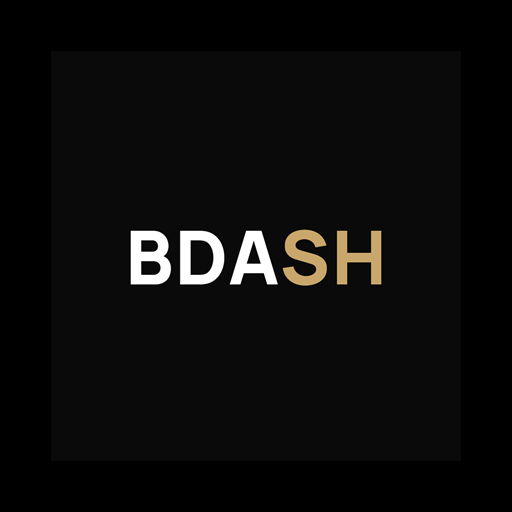
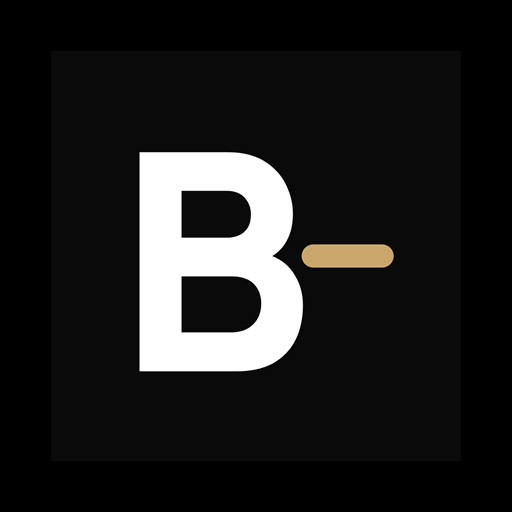
Appli BDASH : accueil sur la carte (panneau qui se baisse), mode clair par défaut et carte claire, liste de voitures légère, bouton Commander, icônes B, ouverture en fondu

Changed region(s): [[0.25, 0.2812, 0.7812, 0.75]]

diff --git a/appli/index.html b/appli/index.html
@@ -11,9 +11,9 @@
 <meta name="apple-mobile-web-app-status-bar-style" content="black-translucent">
 <meta name="apple-mobile-web-app-title" content="BDASH">
 <meta name="format-detection" content="telephone=no">
-<link rel="manifest" href="manifest.webmanifest?v=20261016-1553">
-<link rel="apple-touch-icon" href="icone-180.png?v=20261016-1553">
-<link rel="icon" href="icone-192.png?v=20261016-1553" type="image/png">
+<link rel="manifest" href="manifest.webmanifest?v=20261016-1619">
+<link rel="apple-touch-icon" href="icone-180.png?v=20261016-1619">
+<link rel="icon" href="icone-192.png?v=20261016-1619" type="image/png">
 </head>
 <body><title>BDASH</title>
 <link rel="preconnect" href="https://fonts.googleapis.com">
@@ -241,8 +241,8 @@ details.faq p { margin: -4px 0 16px; color: var(--texte-2); font-size: 14px; }
 /* ---------- Barre du bas flottante ---------- */
 .nav {
   position: absolute; left: 50%; bottom: 16px; z-index: 8; transform: translateX(-50%);
-  width: calc(100% - 28px); max-width: 360px; height: 68px; padding: 6px;
-  display: grid; grid-template-columns: repeat(4, 1fr); gap: 4px;
+  width: calc(100% - 28px); max-width: 300px; height: 68px; padding: 6px;
+  display: grid; grid-template-columns: repeat(3, 1fr); gap: 4px;
   border-radius: 99px; background: var(--verre); border: 1px solid var(--ligne);
   -webkit-backdrop-filter: blur(18px) saturate(1.4); backdrop-filter: blur(18px) saturate(1.4);
   box-shadow: var(--ombre); transition: transform 0.35s var(--ease), opacity 0.3s;
@@ -403,6 +403,11 @@ details.faq p { margin: -4px 0 16px; color: var(--texte-2); font-size: 14px; }
 
 /* ---------- v0.4 : accueil, options de course, documents, textes légaux ---------- */
 .salut { margin: 2px 0 -4px; font: 800 30px/1.1 var(--display); letter-spacing: -0.03em; text-wrap: balance; }
+/* accueil sur la carte : le panneau laisse la place au menu du bas ; baissé, il ne garde que « Où allez-vous ? » */
+.salut-f { margin: 0; font: 800 26px/1.15 var(--display); letter-spacing: -0.02em; }
+.appareil[data-ecran="accueil"] .feuille { padding-bottom: 104px; max-height: calc(100% - 110px); }
+.appareil[data-ecran="accueil"] .feuille.reduite { max-height: 200px; }
+.appareil[data-ecran="accueil"] .feuille.reduite .accueil-f > :not(.recherche) { display: none; }
 .salut span { display: block; margin-top: 6px; font: 500 14.5px/1.3 var(--texte-police); letter-spacing: 0; color: var(--texte-2); }
 .rapides { display: flex; gap: 8px; overflow-x: auto; scrollbar-width: none; margin: -6px -18px 0; padding: 0 18px; }
 .rapides::-webkit-scrollbar { display: none; }
@@ -499,6 +504,21 @@ button.activite > .ic { color: var(--texte-3); }
 .gamme:active { transform: scale(0.96); }
 .gamme[aria-pressed="true"] { border-color: var(--texte); }
 .gamme svg { width: 74px; height: 28px; }
+/* choix de la voiture : une liste légère, la ligne choisie encadrée */
+.liste-gammes { display: grid; gap: 4px; margin: 0 -6px; }
+.ligne-gamme { display: grid; grid-template-columns: 70px minmax(0, 1fr) auto; align-items: center; gap: 12px; width: 100%; padding: 8px 10px 8px 6px; border-radius: 14px; border: 2px solid transparent; text-align: left; transition: border-color 0.2s, background 0.2s; }
+.ligne-gamme[aria-pressed="true"] { border-color: var(--texte); background: var(--surface); }
+.ligne-gamme .lg-auto svg { width: 70px; height: 27px; display: block; }
+.ligne-gamme .lg-nom { min-width: 0; }
+.ligne-gamme .lg-nom b { display: flex; align-items: center; gap: 6px; font: 700 15.5px/1.2 var(--display); white-space: nowrap; }
+.ligne-gamme .lg-nom small { display: flex; align-items: center; gap: 4px; margin-top: 3px; color: var(--texte-2); font-size: 12.5px; white-space: nowrap; overflow: hidden; text-overflow: ellipsis; }
+.ligne-gamme .lg-prix { display: grid; justify-items: end; }
+.ligne-gamme .lg-prix b { font: 700 15.5px/1 var(--display); font-variant-numeric: tabular-nums; }
+.ligne-gamme .lg-prix s { color: var(--texte-3); font-size: 12px; margin-bottom: 3px; }
+.lg-arrivee { display: flex; align-items: center; gap: 6px; margin: -6px 0 0; color: var(--texte-2); }
+.btn-commander[disabled] { opacity: 0.4; }
+.appareil[data-ecran="choix"] .feuille { max-height: 74%; padding-bottom: 0; }
+.appareil[data-ecran="choix"] .btn-commander { position: sticky; bottom: 0; z-index: 2; margin-bottom: 14px; box-shadow: 0 0 0 14px var(--feuille), 0 -18px 18px 6px var(--feuille); }
 .gamme b { font: 700 12.5px/1.1 var(--display); }
 .gamme span { font: 600 12px/1 var(--texte-police); color: var(--texte-2); font-variant-numeric: tabular-nums; }
 button.paiement { width: 100%; text-align: left; }
@@ -713,37 +733,27 @@ button.paiement { width: 100%; text-align: left; }
 .tk-qr.sans-qr { font-size: 9px; color: #000; padding: 4px; text-align: center; overflow-wrap: anywhere; }
 
 /* ---------- Ouverture : BDASH monte lettre par lettre (BDA en blanc, SH en or), les lettres se resserrent,
-   un trait doré se dessine, puis l'écran s'ouvre vers le haut. Ni zoom ni flou sur le logo. ---------- */
+   un trait doré se dessine, puis l'appli apparaît en fondu (comme Uber). Ni zoom ni flou sur le logo. ---------- */
 .lancement { position: absolute; inset: 0; z-index: 90; background: #000; overflow: hidden; display: grid; place-items: center; }
-.lancement::after { content: ""; position: absolute; left: 0; right: 0; bottom: 0; height: 2px; background: linear-gradient(90deg, rgba(201, 166, 107, 0), #c9a66b 25%, #e2cb9a 50%, #c9a66b 75%, rgba(201, 166, 107, 0)); opacity: 0; }
-.lancement.go { animation: l-porte 0.62s 2.05s cubic-bezier(0.76, 0, 0.24, 1) forwards; }
-.lancement.go::after { animation: l-apparait 0.2s 1.95s ease forwards; }
+.lancement.go { animation: l-sortie 0.35s 1.6s ease forwards; }
 .lancement.fini { animation: l-sortie 0.25s ease forwards; }
 .l-bloc { display: grid; justify-items: center; }
 .l-mot { display: flex; gap: 0.14em; overflow: hidden; padding: 0.06em 0.02em; font: 800 64px/1 var(--display); color: #fff; }
 .l-mot span { display: block; transform: translateY(110%); }
 .l-mot .or { color: #c9a66b; }
 .l-ligne { width: 56px; height: 1px; margin-top: 18px; background: #c9a66b; transform: scaleX(0); }
-.l-sous { margin-top: 16px; font: 600 10.5px/1 var(--texte-police); letter-spacing: 0.46em; padding-left: 0.46em; color: #8a8a8a; opacity: 0; transform: translateY(6px); }
-.go .l-mot { animation: l-serre 1.5s 0.1s cubic-bezier(0.22, 1, 0.36, 1) forwards; }
+.go .l-mot { animation: l-serre 1.4s 0.1s cubic-bezier(0.22, 1, 0.36, 1) forwards; }
 .go .l-mot span { animation: l-monte 0.62s calc(0.15s + var(--i) * 0.07s) cubic-bezier(0.22, 1, 0.36, 1) forwards; }
 .go .l-ligne { animation: l-ligne 0.55s 0.95s cubic-bezier(0.22, 1, 0.36, 1) forwards; }
-.go .l-sous { animation: l-sous-entre 0.5s 1.1s cubic-bezier(0.22, 1, 0.36, 1) forwards; }
-.go .l-bloc { animation: l-leve 0.35s 1.9s cubic-bezier(0.55, 0, 0.75, 0) forwards; }
 @keyframes l-monte { to { transform: none; } }
 @keyframes l-serre { to { gap: 0.035em; } }
 @keyframes l-ligne { to { transform: scaleX(1); } }
-@keyframes l-sous-entre { to { opacity: 1; transform: none; } }
-@keyframes l-leve { to { opacity: 0; transform: translateY(-14px); } }
-@keyframes l-apparait { to { opacity: 1; } }
-@keyframes l-porte { to { transform: translateY(-100%); } }
 @keyframes l-sortie { to { opacity: 0; visibility: hidden; } }
 @media (prefers-reduced-motion: reduce) {
   .lancement.go { animation: l-sortie 0.3s 0.9s forwards; }
-  .lancement *, .lancement::after { animation: none !important; }
+  .lancement * { animation: none !important; }
   .l-mot { gap: 0.035em; }
-  .l-mot span, .l-ligne, .l-sous { transform: none; }
-  .l-sous { opacity: 1; }
+  .l-mot span, .l-ligne { transform: none; }
   .p, .cx, .feuille, .modale, .coche { animation: none; }
 }
 </style>
@@ -813,7 +823,7 @@ button.paiement { width: 100%; text-align: left; }
 </svg>
 <!-- ⟪/commun:icones⟫ -->
 
-<div class="appareil" id="appareil" data-mode="sombre">
+<div class="appareil" id="appareil" data-mode="clair">
   <!-- dégradés des voitures : placés dans l'appareil pour suivre le mode sombre ou clair -->
   <svg width="0" height="0" style="position:absolute" aria-hidden="true" focusable="false">
     <defs>
@@ -835,7 +845,6 @@ button.paiement { width: 100%; text-align: left; }
   <main class="page" id="page"></main>
   <nav class="nav" id="nav" aria-label="Navigation">
     <button type="button" data-a="onglet" data-v="accueil"><svg class="ic"><use href="#i-accueil"/></svg>Accueil</button>
-    <button type="button" data-a="onglet" data-v="services"><svg class="ic"><use href="#i-services"/></svg>Services</button>
     <button type="button" data-a="onglet" data-v="activite"><svg class="ic"><use href="#i-recu"/></svg>Activité</button>
     <button type="button" data-a="onglet" data-v="compte"><svg class="ic"><use href="#i-utilisateur"/></svg>Compte<span class="point" id="point-compte"></span></button>
   </nav>
@@ -848,7 +857,6 @@ button.paiement { width: 100%; text-align: left; }
     <div class="l-bloc">
       <div class="l-mot" aria-hidden="true"><span style="--i:0">B</span><span style="--i:1">D</span><span style="--i:2">A</span><span class="or" style="--i:3.6">S</span><span class="or" style="--i:4.6">H</span></div>
       <div class="l-ligne"></div>
-      <div class="l-sous">CHAUFFEUR PRIVÉ</div>
     </div>
   </div>
 </div>
@@ -938,7 +946,7 @@ button.paiement { width: 100%; text-align: left; }
   };
   const etat = {
     ecran: 'accueil', pile: [], ongletActivite: 'passees',
-    modeAffichage: lire('bda-app-affichage', 'sombre'),
+    modeAffichage: lire('bda-app-affichage', 'clair'),
     user: lire('bda-app-compte', null), auth: {},
     depart: lire('bda-app-depart', null) || DEPART_DEFAUT, arrivee: null, arret: null, champ: 'arrivee', filtre: '', filtreDepart: '', filtreArret: '',
     passager: null, vol: { numero: '', pancarte: true }, feuilleReduite: false, sensVehicule: 0, favoriDemande: null, gps: true,
@@ -1530,12 +1538,13 @@ button.paiement { width: 100%; text-align: left; }
       bat: '#1b1e22', batMur: '#131518', batToit: '#262a30', batBord: 'rgba(255,255,255,0.06)',
       trace: '#ffffff', traceOr: '#c9a66b', traceBord: 'rgba(0,0,0,0.55)', traceGris: 'rgba(255,255,255,0.4)', nous: '#ffffff', nousVitres: '#2b2b2b', autres: '#6b7077', autresVitres: '#1d1f22', marque: '#ffffff', centre: '#000000', bulle: '#ffffff', bulleTexte: '#000000', halo2: 'rgba(255,255,255,0.12)', onde: '255,255,255',
     },
+    // clair, façon Uber : gris très doux, routes blanches bordées de gris, eau et parcs pastel, peu de texte
     clair: {
-      mer: '#bcd5e3', terre: '#f1f1ee', autre: '#e8e8e4', frontiere: 'rgba(0,0,0,0.2)', region: 'rgba(0,0,0,0.08)',
-      eau: '#b8d3e2', riviere: '#a9cadd', parc: '#d6e8cc', bois: '#cde2c3', cimetiere: '#dfe5dc', sport: '#d6e8cc',
-      routes: ['#ffd98a', '#ffe7b0', '#ffffff', '#ffffff', '#ffffff', '#ffffff'], bord: ['#e3b45b', '#e8c27a', '#d4d4cf', '#d9d9d4', '#dddcd7', '#e2e2dd'],
-      ville: '#2b2e33', village: '#5b5f66', quartier: '#7a7e85', rue: '#6c7077', halo: '#f1f1ee',
-      bat: '#e4e1da', batMur: '#cfcbc1', batToit: '#eeece7', batBord: 'rgba(0,0,0,0.08)',
+      mer: '#cfe0ee', terre: '#f3f3f1', autre: '#ececea', frontiere: 'rgba(0,0,0,0.12)', region: 'rgba(0,0,0,0.05)',
+      eau: '#cfe0ee', riviere: '#c3d8ea', parc: '#deedd6', bois: '#d6e8ce', cimetiere: '#e4e9e1', sport: '#deedd6',
+      routes: ['#ffffff', '#ffffff', '#ffffff', '#ffffff', '#ffffff', '#ffffff'], bord: ['#c9ccd1', '#cfd2d6', '#d9dbde', '#dfe0e2', '#e3e4e6', '#e7e8e9'],
+      ville: '#3c4043', village: '#5f6368', quartier: '#8a8f94', rue: '#8a8f94', halo: '#f3f3f1',
+      bat: '#e9e9e6', batMur: '#dadad6', batToit: '#f0f0ed', batBord: 'rgba(0,0,0,0.05)',
       trace: '#000000', traceOr: '#c9a66b', traceBord: 'rgba(255,255,255,0.8)', traceGris: 'rgba(0,0,0,0.35)', nous: '#000000', nousVitres: '#5a5a5a', autres: '#8d9197', autresVitres: '#d5d7da', marque: '#000000', centre: '#ffffff', bulle: '#000000', bulleTexte: '#ffffff', halo2: 'rgba(0,0,0,0.1)', onde: '0,0,0',
     },
   };
@@ -1917,6 +1926,7 @@ button.paiement { width: 100%; text-align: left; }
       if (etat.itin) cadrerSur(pointsTrace(etat.itin.tr).concat([etat.depart, etat.arret, etat.arrivee].filter(Boolean)));
       else cadrerSur([etat.depart, etat.arret, etat.arrivee].filter(Boolean), 15.5);
     } else if (e === 'recherche') { cible.u = uDeX(etat.depart.x); cible.v = vDeY(etat.depart.y); cible.z = 15.6; }
+    else if (e === 'accueil') { cible.u = uDeX(etat.depart.x); cible.v = vDeY(etat.depart.y); cible.z = 15.3; }
     else if (e === 'approche' && c && c.rA) cadrerSur(pointsTrace(c.rA, fApproche(c)).concat([etat.depart], c.pos ? [c.pos] : []), 16.4, 60);
     else if (e === 'approche' && c && c.pos) cadrerSur([c.pos, etat.depart], 16.4, 60);
     else if (e === 'arrive') { cible.u = uDeX(etat.depart.x); cible.v = vDeY(etat.depart.y); cible.z = 16.6; }
@@ -1976,7 +1986,8 @@ button.paiement { width: 100%; text-align: left; }
   }
   function dessinerAnime(c, cam, t, P) {
     const e = etat.ecran, cr = etat.course;
-    if (['choix', 'recherche', 'pointer'].includes(e) && cam.z >= 13.2) dessinerVoisins(c, cam, t, P);
+    if (['accueil', 'choix', 'recherche', 'pointer'].includes(e) && cam.z >= 13.2) dessinerVoisins(c, cam, t, P);
+    if (e === 'accueil') repereDepart(c, cam, etat.depart, t, P);
     if ((e === 'choix' || e === 'reservee') && etat.arrivee) {
       if (etat.itin) dessinerTrace(c, cam, etat.itin.tr, 0, P.trace, P, 5, true);
       if (etat.arret) repereArret(c, cam, etat.arret, P);
@@ -2025,6 +2036,8 @@ button.paiement { width: 100%; text-align: left; }
     geste.pts.set(e.pointerId, surCanvas(e));
     geste.actif = true; geste.vu = 0; geste.vv = 0; geste.dernier = performance.now();
     devenirLibre();
+    // accueil : toucher la carte baisse le panneau « Bonjour » pour la dégager
+    if (etat.ecran === 'accueil' && !etat.feuilleReduite) { etat.feuilleReduite = true; feuille.classList.add('reduite'); }
   });
   carte.addEventListener('pointermove', (e) => {
     if (!geste.pts.has(e.pointerId)) return;
@@ -2776,6 +2789,24 @@ button.paiement { width: 100%; text-align: left; }
       <p class="petit centre">BDA · Chauffeur privé · Paris et Île-de-France · 24 h/24</p>
     </div>`;
   }
+  // Accueil façon Uber : la carte en plein écran, le panneau « Bonjour » en bas.
+  // Toucher la carte baisse le panneau : on peut alors la déplacer et zoomer librement.
+  function vueAccueil() {
+    const pill = `<span class="plus-tard" data-a="planifier">${ic('calendrier', 'ic-xs')}${esc(etat.planif ? textePlanif(etat.planif) : 'Plus tard')}</span>`;
+    const recents = etat.recents.slice(0, 3).map((r, i) => `<button class="ligne" type="button" data-a="choisirRecent" data-v="${i}"><span class="pastille">${ic('horloge', 'ic-s')}</span><span><b>${esc(r.titre)}</b><small>${esc(r.sous)}</small></span><span class="droite">${ic('chevron', 'ic-s')}</span></button>`).join('');
+    const lp = etat.lieuxPerso;
+    const rapide = (k, icone, titre) => `<button class="rapide" type="button" data-a="lieuRapide" data-v="${k}">${ic(icone, 'ic-s')}<span>${lp[k] ? titre : `Ajouter ${titre.toLowerCase()}`}</span></button>`;
+    const prenom = etat.user && etat.user.prenom ? `, ${esc(etat.user.prenom)}` : '';
+    const h = new Date().getHours();
+    const service = (a, v, icone, nom) => `<button class="rapide" type="button" data-a="${a}"${v ? ` data-v="${v}"` : ''}>${ic(icone, 'ic-s')}<span>${nom}</span></button>`;
+    return `<div class="poignee" data-a="basculerFeuille" role="button" aria-label="Agrandir ou réduire"></div><div class="pile accueil-f">
+      <h1 class="salut-f">${h >= 5 && h < 18 ? 'Bonjour' : 'Bonsoir'}${prenom}</h1>
+      <button class="recherche" type="button" data-a="destination">${ic('loupe')}<span class="txt">Où allez-vous ?</span>${pill}</button>
+      <div class="rapides">${rapide('domicile', 'maison', 'Domicile')}${rapide('travail', 'mallette', 'Travail')}${service('destination', 'aeroport', 'avion', 'Aéroport')}</div>
+      ${recents ? `<div class="liste">${recents}</div>` : ''}
+      <div class="rapides">${service('planifier', '', 'calendrier', 'Réserver')}${service('disposition', '', 'horloge', 'À l’heure')}${service('depuisAeroport', '', 'avion', 'Depuis l’aéroport')}${service('pourProche', '', 'groupe', 'Pour un proche')}${service('destination', 'vip', 'vip', 'VIP')}</div>
+    </div>`;
+  }
   function pageServices() {
     const t = (a, v, icone, nom, badge = '') => `<button class="service" type="button" data-a="${a}" data-v="${v}">${badge ? `<span class="badge">${badge}</span>` : ''}${ic(icone)}${nom}</button>`;
     return `<div class="p">
@@ -2939,7 +2970,7 @@ button.paiement { width: 100%; text-align: left; }
     },
     affichage() {
       const r = (v, titre, sous) => `<button class="choix-radio" type="button" role="radio" aria-checked="${etat.modeAffichage === v}" data-a="affichage" data-v="${v}"><span><b>${titre}</b><small>${sous}</small></span><span class="rond-radio"></span></button>`;
-      return `<div class="p">${tete('Affichage')}<div>${r('sombre', 'Mode sombre', 'Fond noir, idéal la nuit')}${r('clair', 'Mode clair', 'Fond blanc, lisible en plein soleil')}${r('auto', 'Comme le téléphone', 'Suit le réglage de votre téléphone')}</div></div>`;
+      return `<div class="p">${tete('Affichage')}<div>${r('clair', 'Mode clair', 'Fond blanc, lisible en plein soleil')}${r('sombre', 'Mode sombre', 'Fond noir, idéal la nuit')}${r('auto', 'Comme le téléphone', 'Suit le réglage de votre téléphone')}</div></div>`;
     },
     preferences() {
       const p = etat.prefs;
@@ -3213,28 +3244,16 @@ button.paiement { width: 100%; text-align: left; }
     const f = forfaitCourse(), k = etat.vehicule, v = VEHICULES[k], remise = remisePromo();
     const prixDe = (x) => (it ? prix(x, it) : null);
     const apresRemise = (p) => (p == null ? null : Math.max(0, p - remise));
-    // sélecteur de gammes qui défile sous la vitrine
-    const gamme = (x) => `<button class="gamme" type="button" data-a="vehicule" data-v="${x}" aria-pressed="${k === x}">${silhouette(x)}<b>${VEHICULES[x].nom}</b><span>${it ? euros(apresRemise(prixDe(x))) : '—'}</span></button>`;
+    // liste des gammes, façon Uber : une ligne par voiture (dessin, nom, places et délai, prix), la choisie est encadrée
+    const gamme = (x) => {
+      const vx = VEHICULES[x], px = prixDe(x), delai = !etat.planif && vx.attente != null ? ` · à ${vx.attente} min` : '';
+      const tag = x === 'vip' ? ' <span class="cartouche or">Protection</span>' : x === 'electrique' ? ' <span class="cartouche vert">Éco</span>' : '';
+      return `<button class="ligne-gamme" type="button" data-a="vehicule" data-v="${x}" aria-pressed="${k === x}"><span class="lg-auto">${silhouette(x)}</span><span class="lg-nom"><b>${vx.nom}${tag}</b><small>${ic('utilisateur', 'ic-xs')}${vx.places}${esc(delai)}</small></span><span class="lg-prix">${remise && px != null ? `<s>${euros(px)}</s>` : ''}<b>${px != null ? euros(apresRemise(px)) : '—'}</b></span></button>`;
+    };
     const p = prixDe(k), pFinal = apresRemise(p);
     const arrivee = it ? new Date(depuis + ((etat.planif ? 0 : v.attente || 0) + it.min) * 60000) : null;
-    const etiquette = k === 'vip' ? '<span class="cartouche or">Protection</span>' : k === 'electrique' ? '<span class="cartouche vert">Éco</span>' : '';
     const sousPrix = !it ? '' : k === 'vip' ? `dont protection ${euros(AGENT_VIP)}` : f ? 'Prix fixe' : 'Prix garanti';
-    const sens = etat.sensVehicule; etat.sensVehicule = 0;
-    const anim = sens > 0 ? 'depuis-droite' : sens < 0 ? 'depuis-gauche' : '';
-    const vitrine = `<div class="showroom">
-      <div class="sr-scene" data-glisse="vehicule">
-        <span class="sr-halo"></span>
-        <div class="sr-auto ${anim}">${dessinVoiture(k)}<div class="sr-reflet" aria-hidden="true">${dessinVoiture(k)}</div></div>
-        <span class="sr-brille ${anim ? 'joue' : ''}"></span>
-        <button class="sr-fleche gauche" type="button" data-a="vehiculeVoisin" data-v="-1" aria-label="Voiture précédente">${ic('retour', 'ic-s')}</button>
-        <button class="sr-fleche droite" type="button" data-a="vehiculeVoisin" data-v="1" aria-label="Voiture suivante">${ic('fleche', 'ic-s')}</button>
-      </div>
-      <div class="sr-infos">
-        <div class="sr-nom"><b>${v.nom} ${etiquette}</b><small>${v.modele}</small></div>
-        <div class="sr-prix">${remise && p != null ? `<s>${euros(p)}</s>` : ''}<b>${pFinal != null ? euros(pFinal) : '—'}</b><small>${sousPrix}</small></div>
-      </div>
-      <div class="sr-chips"><span>${ic('utilisateur', 'ic-xs')}${v.places} places</span><span>${ic('mallette', 'ic-xs')}${v.bagages} bagages</span>${etat.planif ? '' : v.attente != null ? `<span>${ic('horloge', 'ic-xs')}À ${v.attente} min</span>` : `<span>${ic('horloge', 'ic-xs')}Aucun chauffeur libre</span>`}${arrivee ? `<span>${ic('pin', 'ic-xs')}Arrivée ${heure(arrivee)}</span>` : ''}</div>
-    </div>`;
+    etat.sensVehicule = 0;
     const ligneTrajet = it ? `${km1(it.km)} km · ${it.min} min${it.via.length ? ' · par ' + it.via.join(' et ') : ''}${etat.planif ? ` · ${textePlanif(etat.planif)}` : ''}` : 'Calcul du trajet sur les routes…';
     const ps = etat.passager, depuisAero = aeroportDe(a), fav = favoriDemande();
     const options = [
@@ -3251,13 +3270,14 @@ button.paiement { width: 100%; text-align: left; }
       <div class="resume"><div><b>${esc(b.titre)}</b><small>${esc(ligneTrajet)}</small></div><button class="lien" type="button" data-a="modifierTrajet">Modifier</button></div>
       ${etat.arret ? `<div class="arret-ligne">${ic('pin', 'ic-xs')}<span>Arrêt : ${esc(etat.arret.titre)}</span><button type="button" data-a="retirerArret" aria-label="Retirer l’arrêt">${ic('croix', 'ic-xs')}</button></div>` : ''}
       ${it ? '' : '<div class="barre-recherche"><i></i></div>'}
-      ${vitrine}
-      <div class="gammes">${ORDRE_VEHICULES.map(gamme).join('')}</div>
+      <div class="liste-gammes" role="group" aria-label="Choix de la voiture">${ORDRE_VEHICULES.map(gamme).join('')}</div>
+      ${!etat.planif && ORDRE_VEHICULES.every((x) => VEHICULES[x].attente == null) ? '<p class="petit lg-arrivee">Aucun chauffeur libre pour l’instant : vous pouvez réserver à l’avance.</p>' : ''}
+      ${arrivee ? `<p class="petit lg-arrivee">${ic('pin', 'ic-xs')}${v.nom} · arrivée vers ${heure(arrivee)}${sousPrix ? ` · ${sousPrix}` : ''}</p>` : ''}
       <div class="options">${options}</div>
       ${k === 'vip' ? `<p class="conditions mention-cnaps">Protection assurée et facturée par ${esc(LEGAL.protection)}, autorisation CNAPS n° ${aCompleter(LEGAL.cnaps)}. ${MENTION_CNAPS}</p>` : ''}
       <button class="paiement" type="button" data-a="choisirPaiement">${logoPaiement(etat.paiement)}<span class="nom-carte">${nomPaiement(etat.paiement)}</span>${ic('chevron', 'ic-s')}</button>
       <p class="conditions">${conditions} <button type="button" data-a="lireTexte" data-v="cgv">Conditions de vente</button></p>
-      ${glissiere(libelle, !!it)}
+      <button class="btn btn-principal btn-commander" type="button" data-a="commander"${it ? '' : ' disabled'}>${esc(libelle)}</button>
     </div>`;
   }
   // « Glisser pour commander » : on pousse le rond jusqu'au bout
@@ -3353,9 +3373,9 @@ button.paiement { width: 100%; text-align: left; }
   }
 
   /* ================= Rendu général ================= */
-  const ONGLETS = ['accueil', 'services', 'activite', 'compte'];
+  const ONGLETS = ['accueil', 'activite', 'compte'];
   const PAGES = { accueil: pageAccueil, services: pageServices, activite: pageActivite, compte: pageCompte, destination: pageDestination, ...SOUS_PAGES };
-  const VUES_CARTE = { choix: vueChoix, pointer: vuePointer, recherche: vueRecherche, approche: vueApproche, arrive: vueArrive, course: vueCourse, fin: vueFin, reservee: vueReservee };
+  const VUES_CARTE = { accueil: vueAccueil, choix: vueChoix, pointer: vuePointer, recherche: vueRecherche, approche: vueApproche, arrive: vueArrive, course: vueCourse, fin: vueFin, reservee: vueReservee };
   let dernierScroll = 0;
   // transitions entre pages façon iPhone : l'ancienne page (copiée) glisse pendant que la nouvelle arrive
   let sensPage = '';
@@ -3378,7 +3398,8 @@ button.paiement { width: 100%; text-align: left; }
     sensPage = '';
     page.hidden = surCarte; feuille.hidden = !surCarte;
     hautCarte.hidden = !surCarte;
-    $('#btn-retour-carte').hidden = ['recherche', 'approche', 'arrive', 'course', 'fin'].includes(e);
+    $('#btn-retour-carte').hidden = ['accueil', 'recherche', 'approche', 'arrive', 'course', 'fin'].includes(e);
+    appareil.dataset.ecran = e;
     carte.style.visibility = surCarte ? 'visible' : 'hidden';
     epingle.hidden = e !== 'pointer';
     if (!surCarte) btnRecentrer.hidden = true;
@@ -4030,7 +4051,7 @@ button.paiement { width: 100%; text-align: left; }
     confirmerSuppression() {
       try { Object.keys(localStorage).filter((k) => k.startsWith('bda-app-')).forEach((k) => localStorage.removeItem(k)); } catch { /* stockage indisponible */ }
       for (const k of Object.keys(DEFAUTS)) etat[k] = JSON.parse(JSON.stringify(DEFAUTS[k]));
-      Object.assign(etat, { user: null, depart: DEPART_DEFAUT, recents: RECENTS_DEFAUT, aVenir: [], passees: exemplesActivite(), messagesLus: false, planif: null, course: null, reservation: null, arrivee: null, itin: null, pile: [], ecran: 'accueil', modeAffichage: 'sombre',
+      Object.assign(etat, { user: null, depart: DEPART_DEFAUT, recents: RECENTS_DEFAUT, aVenir: [], passees: exemplesActivite(), messagesLus: false, planif: null, course: null, reservation: null, arrivee: null, itin: null, pile: [], ecran: 'accueil', modeAffichage: 'clair',
         paiement: 'carte', promo: null, favoris: [], favoriDemande: null, club: { points: 0 }, sons: true, conversations: {} });
       fermerChat();
       nouveauTrajet(); appliquerAffichage(); fermerModale(); rendu(); montrerConnexion();
@@ -5033,7 +5054,7 @@ button.paiement { width: 100%; text-align: left; }
   /* ================= Démarrage ================= */
   // ouverture : on attend la police du logo (0,9 s au plus) pour que BDASH ne change pas de forme en montant
   function demarrerOuverture(l) {
-    const go = () => { l.classList.add('go'); setTimeout(() => { if (l.isConnected) l.hidden = true; }, 2750); };
+    const go = () => { l.classList.add('go'); setTimeout(() => { if (l.isConnected) l.hidden = true; }, 2050); };
     const police = document.fonts && document.fonts.load ? document.fonts.load('800 64px Manrope') : Promise.resolve();
     Promise.race([police, new Promise((ok) => setTimeout(ok, 900))]).then(go, go);
   }

diff --git a/appli/chauffeur/index.html b/appli/chauffeur/index.html
@@ -11,9 +11,9 @@
 <meta name="apple-mobile-web-app-status-bar-style" content="black-translucent">
 <meta name="apple-mobile-web-app-title" content="BDASH Pro">
 <meta name="format-detection" content="telephone=no">
-<link rel="manifest" href="manifest.webmanifest?v=20261016-1553">
-<link rel="apple-touch-icon" href="icone-180.png?v=20261016-1553">
-<link rel="icon" href="icone-192.png?v=20261016-1553" type="image/png">
+<link rel="manifest" href="manifest.webmanifest?v=20261016-1619">
+<link rel="apple-touch-icon" href="icone-180.png?v=20261016-1619">
+<link rel="icon" href="icone-192.png?v=20261016-1619" type="image/png">
 </head>
 <body><title>BDASH Pro</title>
 <link rel="preconnect" href="https://fonts.googleapis.com">
@@ -926,12 +926,13 @@ button { cursor: pointer; background: none; border: 0; padding: 0; -webkit-tap-h
       bat: '#1b1e22', batMur: '#131518', batToit: '#262a30', batBord: 'rgba(255,255,255,0.06)',
       trace: '#ffffff', traceOr: '#c9a66b', traceBord: 'rgba(0,0,0,0.55)', traceGris: 'rgba(255,255,255,0.4)', nous: '#ffffff', nousVitres: '#2b2b2b', autres: '#6b7077', autresVitres: '#1d1f22', marque: '#ffffff', centre: '#000000', bulle: '#ffffff', bulleTexte: '#000000', halo2: 'rgba(255,255,255,0.12)', onde: '255,255,255',
     },
+    // clair, façon Uber : gris très doux, routes blanches bordées de gris, eau et parcs pastel, peu de texte
     clair: {
-      mer: '#bcd5e3', terre: '#f1f1ee', autre: '#e8e8e4', frontiere: 'rgba(0,0,0,0.2)', region: 'rgba(0,0,0,0.08)',
-      eau: '#b8d3e2', riviere: '#a9cadd', parc: '#d6e8cc', bois: '#cde2c3', cimetiere: '#dfe5dc', sport: '#d6e8cc',
-      routes: ['#ffd98a', '#ffe7b0', '#ffffff', '#ffffff', '#ffffff', '#ffffff'], bord: ['#e3b45b', '#e8c27a', '#d4d4cf', '#d9d9d4', '#dddcd7', '#e2e2dd'],
-      ville: '#2b2e33', village: '#5b5f66', quartier: '#7a7e85', rue: '#6c7077', halo: '#f1f1ee',
-      bat: '#e4e1da', batMur: '#cfcbc1', batToit: '#eeece7', batBord: 'rgba(0,0,0,0.08)',
+      mer: '#cfe0ee', terre: '#f3f3f1', autre: '#ececea', frontiere: 'rgba(0,0,0,0.12)', region: 'rgba(0,0,0,0.05)',
+      eau: '#cfe0ee', riviere: '#c3d8ea', parc: '#deedd6', bois: '#d6e8ce', cimetiere: '#e4e9e1', sport: '#deedd6',
+      routes: ['#ffffff', '#ffffff', '#ffffff', '#ffffff', '#ffffff', '#ffffff'], bord: ['#c9ccd1', '#cfd2d6', '#d9dbde', '#dfe0e2', '#e3e4e6', '#e7e8e9'],
+      ville: '#3c4043', village: '#5f6368', quartier: '#8a8f94', rue: '#8a8f94', halo: '#f3f3f1',
+      bat: '#e9e9e6', batMur: '#dadad6', batToit: '#f0f0ed', batBord: 'rgba(0,0,0,0.05)',
       trace: '#000000', traceOr: '#c9a66b', traceBord: 'rgba(255,255,255,0.8)', traceGris: 'rgba(0,0,0,0.35)', nous: '#000000', nousVitres: '#5a5a5a', autres: '#8d9197', autresVitres: '#d5d7da', marque: '#000000', centre: '#ffffff', bulle: '#000000', bulleTexte: '#ffffff', halo2: 'rgba(0,0,0,0.1)', onde: '0,0,0',
     },
   };

diff --git a/appli/sw.js b/appli/sw.js
@@ -4,9 +4,9 @@
    - les données (courses, positions, messages) ne sont JAMAIS gardées : toujours demandées au serveur
    Fichier fabriqué par construire.ps1 (modèle : site-modeles/sw.js).
    ========================================================= */
-const VERSION = '20261016-1553';
+const VERSION = '20261016-1619';
 const NOM = 'BDASH';
-const ICONE = 'icone-192.png?v=20261016-1553';
+const ICONE = 'icone-192.png?v=20261016-1619';
 const PREFIXE = 'bda-page-client-'; // l'appli client et l'appli chauffeur ont chacune leur réserve
 const IGNORER = '/appli/chauffeur/';
 const PAGE = PREFIXE + VERSION;

diff --git a/appli/chauffeur/sw.js b/appli/chauffeur/sw.js
@@ -4,9 +4,9 @@
    - les données (courses, positions, messages) ne sont JAMAIS gardées : toujours demandées au serveur
    Fichier fabriqué par construire.ps1 (modèle : site-modeles/sw.js).
    ========================================================= */
-const VERSION = '20261016-1553';
+const VERSION = '20261016-1619';
 const NOM = 'BDASH Pro';
-const ICONE = 'icone-192.png?v=20261016-1553';
+const ICONE = 'icone-192.png?v=20261016-1619';
 const PREFIXE = 'bda-page-chauffeur-'; // l'appli client et l'appli chauffeur ont chacune leur réserve
 const IGNORER = '';
 const PAGE = PREFIXE + VERSION;
